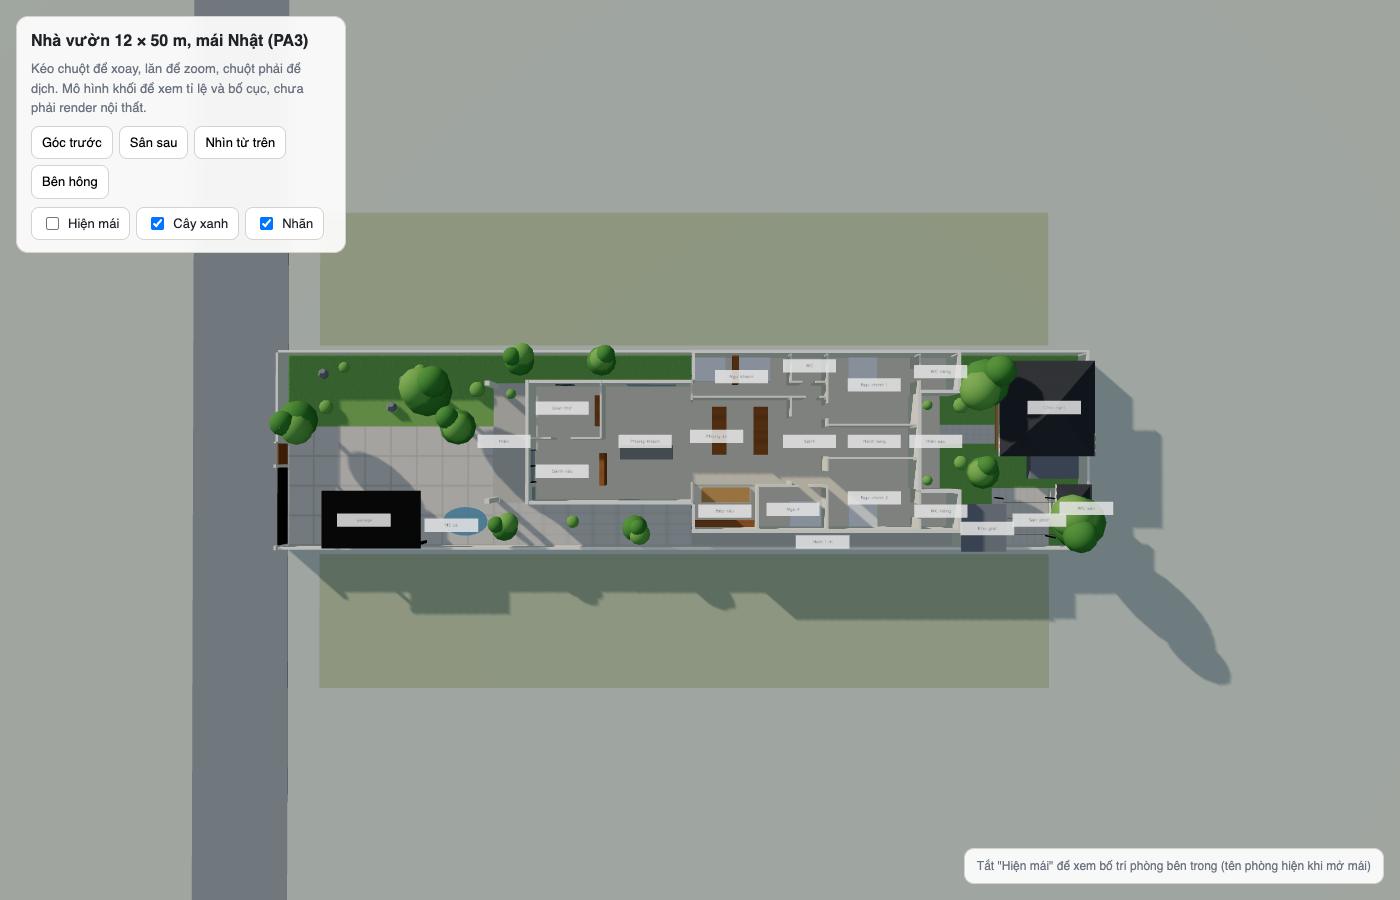
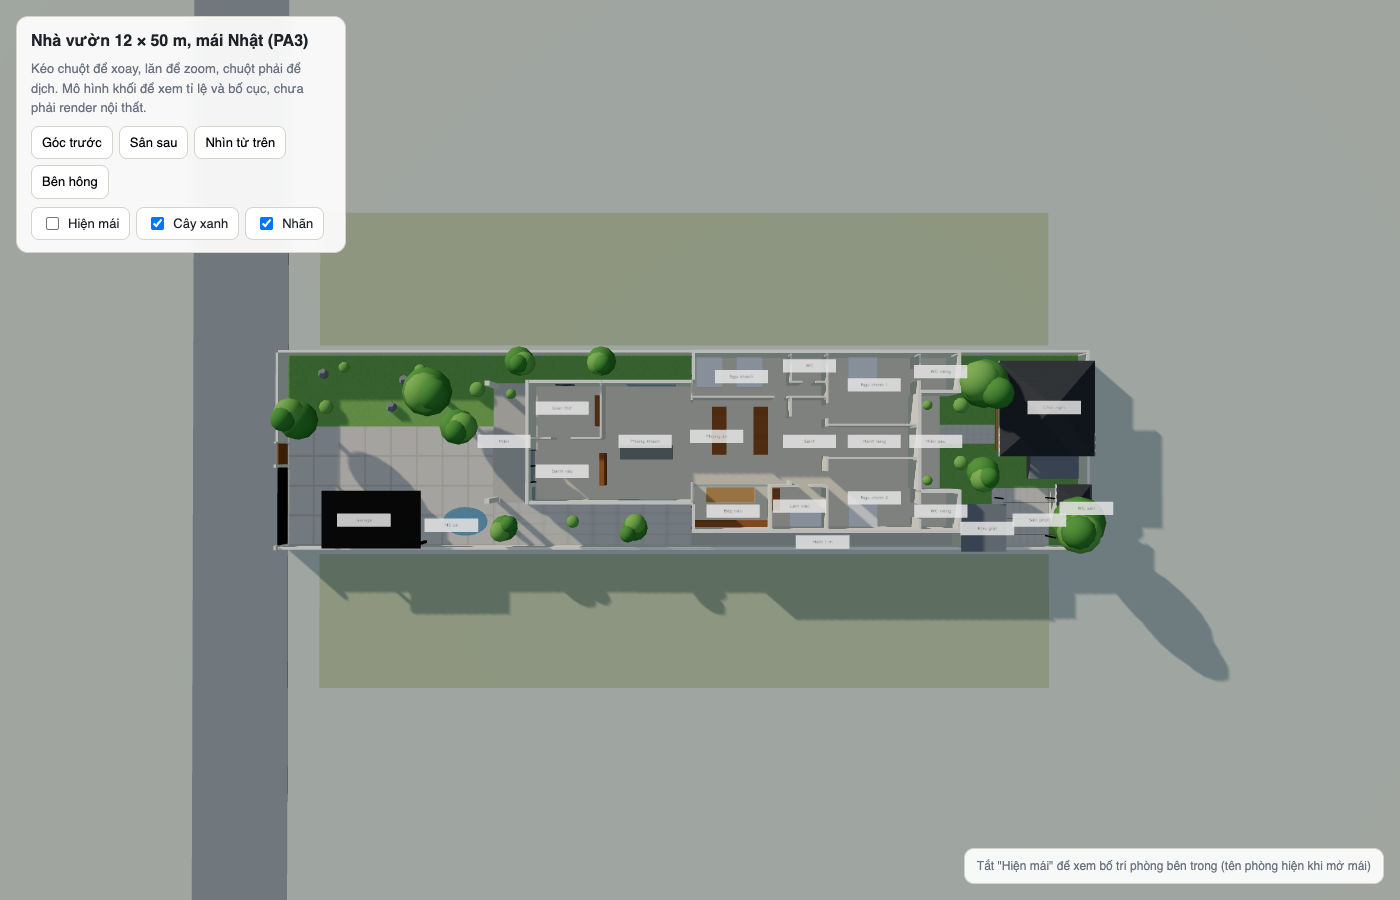
Phòng khách ngủ theo phong thủy, cửa mở từ phòng ăn; ngủ 4 thành phòng làm việc, bếp nấu dài 4,8 m

diff --git a/mat-bang-nha-12x50.html b/mat-bang-nha-12x50.html
@@ -82,9 +82,9 @@
       <h2 style="margin-top:0">Ý đồ thiết kế</h2>
       <ul>
         <li><b>Gian trước 7,5 × 12,5 m</b>: hiên 2,5 m, rồi gian thờ 3,5 × 4,5 m bên trái và sảnh vào 4 × 4,5 m bên phải, sau đó là phòng khách 7,5 × 5,5 m. Gian thờ là phòng đầu tiên của nhà, bàn thờ đặt sát tường trong nhìn thẳng ra đường, có cửa sổ tròn bên hông và cửa sổ ra hiên. Cửa 2 cánh mở từ sảnh vào. Toàn bộ gian trước không có WC.</li>
-        <li><b>Gian ngang 11 × 13,8 m</b> chừa hẻm 1 m bên phải. Giữa nhà là phòng ăn 5,4 × 6 m dưới giếng trời. Bên trái là phòng ngủ khách 2,8 × 8,2 m chạy suốt hai hàng, 2 giường đôi 1,6 × 2 m xếp nối tiếp theo chiều dài phòng, lối đi bên cạnh 1,1 m. Giường 1 đầu tựa tường trước. Giường 2 đầu tựa vách tủ gỗ cao 2 m, vách này chia phòng thành 2 góc ngủ riêng cho 2 cặp khách. Cửa sổ tường trước nâng cao, mép dưới 1,9 m, để không nằm ngay sau đầu giường. Cuối phòng có WC riêng và hốc tủ áo. Bên phải là bếp nấu 2,8 × 4 m tựa tường hẻm, ngăn với phòng ăn bằng vách kính lùa và đảo 3 m, có cửa phụ ra hẻm. Sau bếp nấu là ngủ 4. Hàng giữa: sảnh. Hàng sau: ngủ chính 1 và 2 mỗi phòng 4,5 × 5,6 m, 25,2 m² trọn vẹn, cửa mở từ sảnh chính. Giữa hai phòng là hành lang rộng 2 m, cuối có cửa 2 cánh 1,6 m ra hiên sau. Đây là lối chính trong nhà đi ra sân sau, đủ rộng để bưng đồ ăn ra chòi khi có tiệc.</li>
+        <li><b>Gian ngang 11 × 13,8 m</b> chừa hẻm 1 m bên phải. Giữa nhà là phòng ăn 5,4 × 6 m dưới giếng trời. Bên trái là phòng ngủ khách 2,8 × 8,2 m chạy suốt hai hàng, 2 giường đôi 1,6 × 2 m kê ngang phòng, đầu cả hai giường tựa tường ranh trái là tường đặc, không cửa sổ, không giáp WC. Chân giường quay về tường phòng ăn, không hướng ra cửa, cửa sổ hay WC. Lối đi cuối giường 0,75 m, tab đầu giường dùng chung ở giữa. Cửa sổ tường trước nâng cao, mép dưới 1,9 m, để không nằm ngay sau đầu giường. Cửa phòng mở từ phòng ăn, ở góc xa bếp nấu nên không nhìn thẳng vào bếp lửa. Cuối phòng có WC riêng và hốc tủ áo, chỉ đi vào từ trong phòng. Bên phải là bếp nấu 2,8 × 4,8 m tựa tường hẻm, ngăn với phòng ăn bằng vách kính lùa và đảo 3 m, có cửa phụ ra hẻm. Sau bếp nấu là phòng làm việc 2,8 × 3,4 m, có bàn làm việc và 1 giường đơn cho người ngủ lại. Hàng giữa: sảnh. Hàng sau: ngủ chính 1 và 2 mỗi phòng 4,5 × 5,6 m, 25,2 m² trọn vẹn, cửa mở từ sảnh chính. Giữa hai phòng là hành lang rộng 2 m, cuối có cửa 2 cánh 1,6 m ra hiên sau. Đây là lối chính trong nhà đi ra sân sau, đủ rộng để bưng đồ ăn ra chòi khi có tiệc.</li>
         <li><b>Hai WC riêng 2,4 × 2,6 m</b> nhô ra phía hiên sau, nằm trong mép mái đua sẵn có nên không phải làm thêm mái. Mỗi WC có ba mặt ngoài, cửa sổ hai phía, rất thoáng. Hiên sau thu lại còn 5,8 m nằm giữa hai WC, thành một góc ngồi kín đáo hơn. Mỗi phòng master có cửa kính ra thẳng hiên.</li>
-        <li><b>4 WC</b>: WC riêng 1 và 2 cho hai phòng ngủ chính, nhô ra phía hiên sau. WC 2,2 × 1,9 m nằm trong phòng ngủ khách. WC sân vườn 2 × 2,2 m cạnh chòi và BBQ, dùng khi tiệc ngoài trời. Không WC nào nằm giữa nhà hay gần gian thờ. <b>Lưu ý:</b> phòng ngủ 4 hiện không có WC chung gần, xem mục cần cân nhắc.</li>
+        <li><b>4 WC</b>: WC riêng 1 và 2 cho hai phòng ngủ chính, nhô ra phía hiên sau. WC 2,2 × 1,9 m nằm trong phòng ngủ khách. WC sân vườn 2 × 2,2 m cạnh chòi và BBQ, dùng khi tiệc ngoài trời. Không WC nào nằm giữa nhà hay gần gian thờ.</li>
         <li><b>Hẻm 1 m</b> chạy từ sân bên phải gian trước ra thẳng sân sau. Đủ cho người đi lại thoải mái, mang đồ, đẩy xe rác hoặc máy cắt cỏ ra sau mà không phải đi xuyên nhà. Dắt xe máy thì hơi chật, cần khoảng 1,2 m.</li>
         <li><b>Tiệc 15–16 người:</b> hai bộ bàn 3 × 0,9 m, mỗi bộ 8 ghế, đặt song song trong phòng ăn dưới giếng trời. Khoảng hở giữa hai hàng ghế, trước và sau bàn đều 0,8 m. Bên phải còn lối đi 2 m tới đảo 3 m làm quầy buffet. Ngày thường dùng một bàn, bàn còn lại làm bàn làm việc hoặc cho con học. Phòng khách giữ trọn sofa, TV và góc đọc sách.</li>
         <li><b>Giếng trời</b> trên phòng ăn, đúng tâm nhà, lấy sáng và tụ khí cho khu sinh hoạt chung.</li>
@@ -127,7 +127,7 @@
         <tr><td>Phòng khách</td><td>Sofa 3 chỗ vải xám, bàn trà tròn gỗ, kệ TV thấp treo tường, góc đọc sách 2 ghế bành cạnh cửa kính bên trái</td><td>Mảng tường TV ốp gỗ sồi hoặc sơn hiệu ứng bê tông, không kệ trang trí</td></tr>
         <tr><td>Bếp + ăn</td><td>Bếp nấu chữ I dọc tường hẻm, bếp lửa và chậu rửa cách nhau 1 m trên cùng một mặt, tủ lạnh cuối dãy; đảo 3 × 0,9 m làm quầy buffet; 2 bàn ăn gỗ sồi 3 × 0,9 m giống hệt nhau, tổng 16 ghế (ghế xếp gọn được thì tốt)</td><td>Cánh tủ phẳng trắng kem, mặt đá thạch anh trắng liền khối, hút mùi âm đảo, đèn thả 3 bóng trên đảo</td></tr>
         <tr><td>Ngủ chính 1, 2</td><td>Giường 1,8 m bệt thấp, tủ âm tường kịch trần, 2 tab đầu giường, WC riêng 2,2 × 2,4 có sen đứng kính</td><td>Đèn thả 2 bên thay đèn bàn, rèm 2 lớp màu xám nhạt</td></tr>
-        <tr><td>Ngủ 3, 4</td><td>Giường 1,6 m, tủ âm tường, bàn học nhỏ</td><td>Cùng một bộ vật liệu để nhà đồng bộ</td></tr>
+        <tr><td>Phòng khách ngủ, phòng làm việc</td><td>Phòng khách ngủ: 2 giường đôi 1,6 m. Phòng làm việc: bàn 1,4 m, ghế, giường đơn 1 m, kệ sách treo tường</td><td>Cùng một bộ vật liệu để nhà đồng bộ</td></tr>
         <tr><td>WC (4 phòng)</td><td>Gạch lớn 60×120 xám nhạt, lavabo đặt bàn, gương tròn</td><td>Vòi sen đen mờ, kính cường lực không khung, quạt hút + cửa sổ</td></tr>
         <tr><td>Hiên sau, chòi</td><td>Bàn gỗ dài + ghế băng, ghế lười, đèn dây</td><td>Gỗ tự nhiên dầu bảo vệ, cùng tông với mảng gỗ mặt tiền</td></tr>
       </tbody>
@@ -172,7 +172,6 @@
     <div class="card">
       <h2 style="margin-top:0">Điểm cần cân nhắc</h2>
       <ul>
-        <li><b>Ngủ 4 chưa có WC gần:</b> WC chung cũ đã nhập vào phòng ngủ khách. Có 2 cách. Cách 1: cho WC phòng khách ngủ thêm một cửa ra sảnh, dùng chung khi không có khách. Cách 2: ngủ 4 dùng làm phòng làm việc hoặc phòng đồ thay vì phòng ngủ.</li>
         <li><b>Xây sát ranh bên trái:</b> vẫn phải kiểm tra quy định lùi ranh ở địa phương. Bên phải đã lùi 1 m.</li>
         <li><b>Cửa sổ ra hẻm 1 m:</b> theo quy định chung, tường cách ranh dưới 2 m chỉ được mở cửa sổ cao (mép dưới từ 2 m) hoặc lam thoáng. Tao vẽ WC khách, ngủ 4 và WC riêng 2 theo kiểu này.</li>
         <li><b>Ngủ 3</b> chỉ có cửa sổ nhỏ 1,2 m ra mặt trước (phần lộ ngoài gian trước). Nếu muốn sáng hơn, lùi gian trước sang phải thêm 0,5 m hoặc thêm giếng trời nhỏ.</li>
@@ -245,7 +244,7 @@ function tree(p,m,d,wv,r){
   el('line',{x1:m.x(13.6),y1:m.y(5.55),x2:m.x(24.9),y2:m.y(5.55),stroke:'#fff','stroke-width':1.2,'stroke-dasharray':'4 3'},g);
   el('line',{x1:m.x(31),y1:m.y(5.9),x2:m.x(35.6),y2:m.y(5.9),stroke:'#fff','stroke-width':1.2,'stroke-dasharray':'4 3'},g);
   label(g,m,19.2,3.6,['GIAN TRƯỚC','thờ + khách 7,5 × 12,5'],{size:10,fill:'#fff',bold:true});
-  label(g,m,33.3,8.6,['GIAN NGANG 11 × 13,8','4 ngủ · bếp · 4 WC'],{size:10,fill:'#fff',bold:true});
+  label(g,m,33.3,8.6,['GIAN NGANG 11 × 13,8','2 master · khách · làm việc'],{size:10,fill:'#fff',bold:true});
   label(g,m,40.5,5.75,'hiên sau',{size:9,fill:'#fff'});
   label(g,m,33.3,12.6,'hẻm 1 m',{size:9,fill:css('--muted')});
   rect(g,m,41.9,44.4,9.5,12,{fill:'#c9c5bd',stroke:'#6b6f75','stroke-width':1}); label(g,m,43.15,10.75,['KHO','GIẶT'],{size:9});
@@ -270,10 +269,10 @@ const rooms=[
   {n:'GIAN THỜ',d:[15.5,20],w:[1.8,5.3],f:'--c-worship'},
   {n:'SẢNH VÀO',d:[15.5,20],w:[5.3,9.3],f:'--c-living'},
   {n:'PHÒNG KHÁCH + SINH HOẠT',d:[20,25.5],w:[1.8,9.3],f:'--c-living'},
-  {n:'NGỦ KHÁCH',d:[25.5,33.7],w:[0,2.8],f:'--c-bed',minus:4.18,sub:'2 giường đôi · WC riêng',lp:[29.5,1.0]},
+  {n:'NGỦ KHÁCH',d:[25.5,33.7],w:[0,2.8],f:'--c-bed',minus:4.18,sub:'2 giường đôi · WC riêng',lp:[28.6,1.25]},
   {n:'PHÒNG ĂN',d:[25.5,31.5],w:[2.8,8.2],f:'--c-kitchen',sub:'2 bàn 16 chỗ · giếng trời',lp:[28.2,7.2]},
-  {n:'BẾP NẤU',d:[25.5,29.5],w:[8.2,11.0],f:'--c-kitchen',lp:[27.7,9.7]},
-  {n:'NGỦ 4',d:[29.5,33.7],w:[8.2,11.0],f:'--c-bed'},
+  {n:'BẾP NẤU',d:[25.5,30.3],w:[8.2,11.0],f:'--c-kitchen',lp:[28.3,9.75]},
+  {n:'LÀM VIỆC',d:[30.3,33.7],w:[8.2,11.0],f:'--c-bed',sub:'1 giường đơn',lp:[31.4,9.3]},
   {n:'WC',d:[31.5,33.7],w:[0,1.9],f:'--c-wet',small:true,sub2:'2,2 × 1,9'},
   {n:'SẢNH',d:[31.5,33.7],w:[2.8,8.2],f:'--c-hall'},
   {n:'NGỦ CHÍNH 1',d:[33.7,39.3],w:[0,4.5],f:'--c-bed',sub:'WC riêng phía sau'},
@@ -313,15 +312,13 @@ const rooms=[
     [0.15,0.9,1.65,2.4].forEach(o=>{rect(g,m,d1-0.45,d1,3.3+o,3.3+o+.45,{fill:'#fff',stroke:'#a67c52',rx:2});rect(g,m,d1+0.9,d1+1.35,3.3+o,3.3+o+.45,{fill:'#fff',stroke:'#a67c52',rx:2});});
     label(g,m,d1+0.45,4.8,name,{size:9,fill:'#5b3a1a',rot:-90}); }
   table(26.75,'BÀN A · 8'); table(29.35,'BÀN B · 8');
-  rect(g,m,25.6,29.4,10.4,10.95,{fill:'#c9b27a',opacity:.8});        // tủ bếp dọc hẻm
+  rect(g,m,25.6,30.2,10.4,10.95,{fill:'#c9b27a',opacity:.8});        // tủ bếp dọc hẻm
   rect(g,m,25.8,26.6,10.45,10.9,{fill:'#b45f2e'}); label(g,m,26.2,10.2,'bếp lửa',{size:8,fill:'#8a3b12'});
   rect(g,m,27.6,28.4,10.45,10.9,{fill:'#7cc4ff'}); label(g,m,28.0,10.2,'chậu rửa',{size:8,fill:'#1d5f8a'});
-  rect(g,m,28.8,29.4,10.25,10.95,{fill:'#e5e7eb',stroke:'#b8b3a8'}); 
-  rect(g,m,26.1,29.1,8.35,9.25,{fill:'#d9c6a5',stroke:'#8b5a2b','stroke-width':1,rx:2}); label(g,m,27.6,8.9,'ĐẢO 3 m · buffet',{size:9,fill:'#5b3a1a'});
+  rect(g,m,29.6,30.2,10.25,10.95,{fill:'#e5e7eb',stroke:'#b8b3a8'}); 
+  rect(g,m,26.4,29.4,8.35,9.25,{fill:'#d9c6a5',stroke:'#8b5a2b','stroke-width':1,rx:2}); label(g,m,27.9,8.9,'ĐẢO 3 m · buffet',{size:9,fill:'#5b3a1a'});
   function bed(d1,d2,w1,w2,head){rect(g,m,d1,d2,w1,w2,F); const h=0.35; if(head==='w0')rect(g,m,d1+0.1,d2-0.1,w1,w1+h,{fill:'#e5e7eb',rx:2}); if(head==='w1')rect(g,m,d1+0.1,d2-0.1,w2-h,w2,{fill:'#e5e7eb',rx:2}); if(head==='d1')rect(g,m,d2-h,d2,w1+0.1,w2-0.1,{fill:'#e5e7eb',rx:2}); if(head==='ds')rect(g,m,d1,d1+h,w1+0.1,w2-0.1,{fill:'#e5e7eb',rx:2});}
-  bed(25.6,27.6,0.1,1.7,'ds'); bed(28.4,30.4,0.1,1.7,'ds');
-  rect(g,m,28.0,28.4,0,1.9,{fill:'#c9a37a',rx:1}); label(g,m,28.2,0.95,'vách tủ',{size:8,fill:'#5b3a1a',rot:-90});
-  rect(g,m,25.6,26.0,1.8,2.2,F); rect(g,m,28.5,28.9,1.8,2.2,F); rect(g,m,31.7,33.5,2.2,2.7,{fill:'#e5e7eb',rx:2}); bed(31.6,33.6,9.2,10.8,'d1'); bed(35.3,37.1,0.1,2.1,'w0'); bed(35.3,37.1,8.9,10.9,'w1');
+  bed(25.8,27.4,0.05,2.05,'w0'); bed(28.3,29.9,0.05,2.05,'w0'); rect(g,m,27.55,28.15,0.05,0.45,F); rect(g,m,31.7,33.5,2.2,2.7,{fill:'#e5e7eb',rx:2}); bed(31.6,33.6,9.9,10.9,'d1'); rect(g,m,30.4,31.0,8.4,9.8,Object.assign({},F,{stroke:'#a67c52'})); el('circle',{cx:m.x(31.3),cy:m.y(9.1),r:.22*m.S,fill:'#fff',stroke:'#a67c52'},g); bed(35.3,37.1,0.1,2.1,'w0'); bed(35.3,37.1,8.9,10.9,'w1');
   rect(g,m,36.4,39.1,3.9,4.4,{fill:'#e5e7eb',rx:2}); rect(g,m,36.4,39.1,6.6,7.1,{fill:'#e5e7eb',rx:2}); // tủ áo
   function plant(d,w,r){const cx=m.x(d),cy=m.y(w),R=(r||0.3)*m.S; el('circle',{cx,cy,r:R,fill:'#4f9a5a'},g); el('circle',{cx:cx-R*.3,cy:cy-R*.3,r:R*.45,fill:'#7cc27f'},g);}
   plant(14.2,2.5,0.3); plant(16.3,6.0,0.3); plant(24.9,2.2,0.25); plant(24.9,8.9,0.22); plant(31.0,7.8,0.18); plant(32.6,5.0,0.2); plant(34.3,5.5,0.18); plant(40.2,3.2,0.3); plant(40.2,7.9,0.3);
@@ -348,7 +345,7 @@ const rooms=[
   wall(39.3,2.6,41.7,2.6); wall(41.7,0,41.7,2.6); wall(39.3,8.4,41.7,8.4); wall(41.7,8.4,41.7,11.0);
   wall(15.5,5.3,20,5.3,ti); wall(20,1.8,20,5.3,ti);
   wall(25.5,1.8,25.5,9.3,ti);
-  wall(25.5,2.8,33.7,2.8,ti); wall(29.5,8.2,33.7,8.2,ti); wall(29.5,8.2,29.5,11.0,ti);
+  wall(25.5,2.8,33.7,2.8,ti); wall(30.3,8.2,33.7,8.2,ti); wall(30.3,8.2,30.3,11.0,ti);
   wall(31.5,0,31.5,1.9,ti); wall(31.5,2.8,31.5,8.2,ti);
   wall(31.5,1.9,33.7,1.9,ti);
   wall(33.7,0,33.7,11.0,ti);
@@ -365,9 +362,9 @@ const rooms=[
   opening(33.7,4.6,33.7,6.4,css('--c-hall'));
   door(15.5,6.0,15.5,8.0);
   door(17,5.3,18.2,5.3);
-  door(32.4,2.8,33.3,2.8); door(32.0,8.2,32.8,8.2);   // ngủ khách, ngủ 4
+  door(30.5,2.8,31.3,2.8); door(32.0,8.2,32.8,8.2);   // ngủ khách mở từ phòng ăn, ngủ 4
   door(26.8,11.0,27.4,11.0);                                 // cửa phụ bếp ra hẻm
-  win(25.7,8.2,29.3,8.2);                                    // vách kính lùa bếp nấu
+  win(25.7,8.2,30.1,8.2);                                    // vách kính lùa bếp nấu
   door(32.2,1.9,33.0,1.9);
   door(33.7,3.2,33.7,4.1); door(33.7,7.3,33.7,8.2);       // cửa 2 master từ sảnh
   door(39.3,0.9,39.3,1.8); door(39.3,9.3,39.3,10.2);       // master -> WC riêng
@@ -378,7 +375,7 @@ const rooms=[
   el('circle',{cx:m.x(17.7),cy:m.y(1.8),r:.55*m.S,fill:'#fff',stroke:'#7cc4ff','stroke-width':3},g);
   win(20.3,9.3,21.1,9.3); win(24.3,9.3,25.3,9.3); win(21.5,1.8,24.5,1.8);
   el('line',{x1:m.x(25.5),y1:m.y(0.3),x2:m.x(25.5),y2:m.y(1.5),stroke:'#7cc4ff','stroke-width':5,'stroke-dasharray':'4 2'},g); label(g,m,25.1,0.9,'cửa sổ cao',{size:8,fill:'#1d5f8a',rot:-90}); win(25.5,9.5,25.5,10.8);
-  win(27.8,11.0,29.2,11.0); win(30.2,11.0,31.4,11.0); win(32,11.0,33.2,11.0); win(37.4,11.0,38.8,11.0); win(40.0,11.0,41.2,11.0);
+  win(27.8,11.0,29.2,11.0); win(30.6,11.0,31.4,11.0); win(32,11.0,33.2,11.0); win(37.4,11.0,38.8,11.0); win(40.0,11.0,41.2,11.0);
   win(41.7,0.5,41.7,2.1); win(41.7,8.9,41.7,10.5); win(40.0,2.6,40.9,2.6); win(40.0,8.4,40.9,8.4);   // cửa sổ WC riêng
   win(39.3,2.9,39.3,4.3); win(39.3,6.7,39.3,8.1);   // cửa kính master ra hiên
 
@@ -389,7 +386,7 @@ const rooms=[
   dim(g,m,13,15.5,12.9,'2,5'); dim(g,m,15.5,20,12.9,'4,5'); dim(g,m,20,25.5,12.9,'5,5'); dim(g,m,25.5,31.5,12.9,'6'); dim(g,m,31.5,33.7,12.9,'2,2'); dim(g,m,33.7,39.3,12.9,'5,6'); dim(g,m,39.3,41.7,12.9,'2,4');
   dimV(g,m,0,2.8,25.1,'2,8'); dimV(g,m,2.8,8.2,25.1,'5,4'); dimV(g,m,8.2,11.0,25.1,'2,8'); dimV(g,m,11.0,12,25.1,'1');
   dimV(g,m,0,1.8,12.6,'1,8'); dimV(g,m,1.8,9.3,12.6,'7,5'); dimV(g,m,9.3,12,12.6,'2,7');
-  dim(g,m,25.5,33.7,-0.35,'ngủ khách dài 8,2 m (gồm WC 2,2)'); dim(g,m,25.5,29.5,11.8,'bếp nấu 4'); dim(g,m,29.5,33.7,11.8,'ngủ 4: 4,2');
+  dim(g,m,25.5,33.7,-0.35,'ngủ khách dài 8,2 m (gồm WC 2,2)'); dim(g,m,25.5,30.3,11.8,'bếp nấu 4,8'); dim(g,m,30.3,33.7,11.8,'làm việc 3,4');
   label(g,m,20.5,0.9,'dải cây xanh 1,8 m',{size:10,fill:css('--muted')}); label(g,m,19,10.7,'sân lát bên phải 2,7 m',{size:10,fill:css('--muted')});
   dimV(g,m,0,4.5,42.4,'4,5'); dimV(g,m,4.5,6.5,42.4,'2'); dimV(g,m,6.5,11.0,42.4,'4,5'); dimV(g,m,11.0,12,42.4,'1');
   dimV(g,m,1.8,5.3,15.1,'3,5'); dimV(g,m,5.3,9.3,15.1,'4');

diff --git a/3d-nha-12x50.html b/3d-nha-12x50.html
@@ -193,8 +193,8 @@ const inner=new THREE.Group(); house.add(inner); const IH=3.2, TI=0.12;
 function iw(d1,w1,d2,w2){ if(d1===d2) box(d1-TI/2,d1+TI/2,Math.min(w1,w2),Math.max(w1,w2),0,IH,M.inner,inner); else box(Math.min(d1,d2),Math.max(d1,d2),w1-TI/2,w1+TI/2,0,IH,M.inner,inner); }
 iw(15.5,5.3,17,5.3); iw(18.2,5.3,20,5.3); iw(20,1.8,20,5.3);
 iw(25.5,1.8,25.5,3.0); iw(25.5,8.0,25.5,9.3);
-iw(25.5,2.8,32.4,2.8); iw(33.3,2.8,33.7,2.8); iw(29.5,8.2,32.0,8.2); iw(32.8,8.2,33.7,8.2); iw(29.5,8.2,29.5,11.0);
-box(25.7,29.3,8.17,8.23,0.15,IH,M.glass,inner,false);
+iw(25.5,2.8,30.5,2.8); iw(31.3,2.8,33.7,2.8); iw(30.3,8.2,32.0,8.2); iw(32.8,8.2,33.7,8.2); iw(30.3,8.2,30.3,11.0);
+box(25.7,30.1,8.17,8.23,0.15,IH,M.glass,inner,false);
 iw(31.5,0,31.5,1.9); iw(31.5,2.8,31.5,4.0); iw(31.5,7.9,31.5,8.2);
 iw(31.5,1.9,32.2,1.9); iw(33.0,1.9,33.7,1.9);
 iw(33.7,0,33.7,3.2); iw(33.7,4.1,33.7,4.6); iw(33.7,6.4,33.7,7.3); iw(33.7,8.2,33.7,11.0);
@@ -202,11 +202,10 @@ iw(33.7,4.5,39.3,4.5); iw(33.7,6.5,39.3,6.5);
 iw(39.3,0,39.3,0.9); iw(39.3,1.8,39.3,2.6); iw(39.3,8.4,39.3,9.3); iw(39.3,10.2,39.3,11.0);
 // interior hints
 box(19.45,19.95,2.6,4.5,0.15,1.0,M.wood,inner);                 // bàn thờ
-box(25.6,29.4,10.4,10.95,0.15,1.0,M.wood,inner); box(26.1,29.1,8.35,9.25,0.15,1.0,M.deck,inner); box(26.75,27.65,3.3,6.3,0.7,0.78,M.wood,inner); box(29.35,30.25,3.3,6.3,0.7,0.78,M.wood,inner);
-[[25.6,27.6,0.1,1.7],[28.4,30.4,0.1,1.7],[31.6,33.6,9.2,10.8],[35.3,37.1,0.1,2.1],[35.3,37.1,8.9,10.9]].forEach(([a,b,c,d])=>box(a,b,c,d,0.15,0.55,M.white,inner));
+box(25.6,30.2,10.4,10.95,0.15,1.0,M.wood,inner); box(26.4,29.4,8.35,9.25,0.15,1.0,M.deck,inner); box(26.75,27.65,3.3,6.3,0.7,0.78,M.wood,inner); box(29.35,30.25,3.3,6.3,0.7,0.78,M.wood,inner);
+[[25.8,27.4,0.05,2.05],[28.3,29.9,0.05,2.05],[31.6,33.6,9.9,10.9],[35.3,37.1,0.1,2.1],[35.3,37.1,8.9,10.9]].forEach(([a,b,c,d])=>box(a,b,c,d,0.15,0.55,M.white,inner));
 box(19.85,20.15,6.2,8.2,0.15,2.4,M.wood,inner);   // lam gỗ bình phong
-box(28.0,28.4,0.05,1.9,0.15,2.15,M.wood,inner);   // vách tủ phòng khách ngủ
-box(21.0,24.3,5.7,6.6,0.15,0.75,new THREE.MeshStandardMaterial({color:0x9a9a94}),inner);
+box(30.4,31.0,8.4,9.8,0.7,0.76,M.wood,inner); box(21.0,24.3,5.7,6.6,0.15,0.75,new THREE.MeshStandardMaterial({color:0x9a9a94}),inner);
 
 // roofs
 const roofs=new THREE.Group(); G.add(roofs);
@@ -237,7 +236,7 @@ function makeLabel(text,d,w,y,size=1.1,grp=labels){
   const t=new THREE.CanvasTexture(c); t.colorSpace=THREE.SRGBColorSpace;
   const sp=new THREE.Sprite(new THREE.SpriteMaterial({map:t,depthTest:false,transparent:true})); sp.scale.set(size*4,size,1); sp.position.set(d,y,w); grp.add(sp);
 }
-[['Gian thờ',17.7,3.5],['Sảnh vào',17.7,7.3],['Phòng khách',22.7,5.5],['Hiên',14.2,5.5],['Ngủ khách',28.5,1.6],['Phòng ăn',27,5.2],['Bếp nấu',27.5,9.7],['Ngủ 4',31.6,9.6],['Sảnh',32.6,5.5],['Ngủ chính 1',36.5,2.1],['Ngủ chính 2',36.5,8.9],['WC riêng',40.5,1.3],['WC riêng',40.5,9.7],['Hành lang',36.5,5.5],['WC',32.6,0.95],['Hiên sau',40.2,5.5]].forEach(([t,d,w])=>makeLabel(t,d,w,3.4,0.8));
+[['Gian thờ',17.7,3.5],['Sảnh vào',17.7,7.3],['Phòng khách',22.7,5.5],['Hiên',14.2,5.5],['Ngủ khách',28.5,1.6],['Phòng ăn',27,5.2],['Bếp nấu',28,9.7],['Làm việc',32,9.4],['Sảnh',32.6,5.5],['Ngủ chính 1',36.5,2.1],['Ngủ chính 2',36.5,8.9],['WC riêng',40.5,1.3],['WC riêng',40.5,9.7],['Hành lang',36.5,5.5],['WC',32.6,0.95],['Hiên sau',40.2,5.5]].forEach(([t,d,w])=>makeLabel(t,d,w,3.4,0.8));
 [['Garage',6,10.2],['Chòi nghỉ',47.1,3.5],['Sân phơi',46.2,10.2],['Kho giặt',43.1,10.7],['Hẻm 1 m',33.3,11.5],['WC sân',49,9.5],['Hồ cá',11.2,10.5]].forEach(([t,d,w])=>makeLabel(t,d,w,4.2,0.8,outLabels));
 labels.visible=false;
 

diff --git a/BOI-CANH-DU-AN.md b/BOI-CANH-DU-AN.md
@@ -14,8 +14,8 @@
 - Sân trước 13 m: cổng, garage bên trái (nhìn từ trong ra), hồ cá bên trái cạnh lối xe, tiểu cảnh đá bên phải.
 - Gian trước 7,5 x 12,5 m: hiên 2,5; gian thờ 4,5 x 3,5 (phòng đầu tiên) + sảnh vào 4,5 x 4; lam gỗ bình phong; phòng khách 5,5 x 7,5.
 - Gian ngang 11 x 13,8 m, hẻm 1 m bên phải thông ra sân sau.
-  - Hàng trước: ngủ khách 2,8 x 8,2 chạy suốt 2 hàng, 2 giường đôi nối tiếp, vách tủ ở giữa, WC trong phòng | phòng ăn 5,4 x 6 ở tâm nhà, giếng trời, 2 bàn 8 chỗ | bếp nấu 2,8 x 4 tựa tường hẻm + đảo buffet 3 m.
-  - Hàng giữa: sảnh | ngủ 4 (2,8 x 4,2).
+  - Hàng trước: ngủ khách 2,8 x 8,2 chạy suốt 2 hàng, 2 giường đôi kê ngang, đầu tựa tường ranh, cửa mở từ phòng ăn, WC trong phòng | phòng ăn 5,4 x 6 ở tâm nhà, giếng trời, 2 bàn 8 chỗ | bếp nấu 2,8 x 4,8 tựa tường hẻm + đảo buffet 3 m.
+  - Hàng giữa: sảnh | phòng làm việc 2,8 x 3,4 có 1 giường đơn.
   - Hàng sau: ngủ chính 1 và 2 (4,5 x 5,6) | hành lang 2 m ra hiên sau.
   - 2 WC riêng 2,4 x 2,6 nhô ra sau dưới mái đua, hiên sau 5,8 m ở giữa.
 - Sân sau 8,3 m: kho giặt, sân phơi, chòi 5 x 5 + BBQ, WC sân vườn cạnh chòi.
